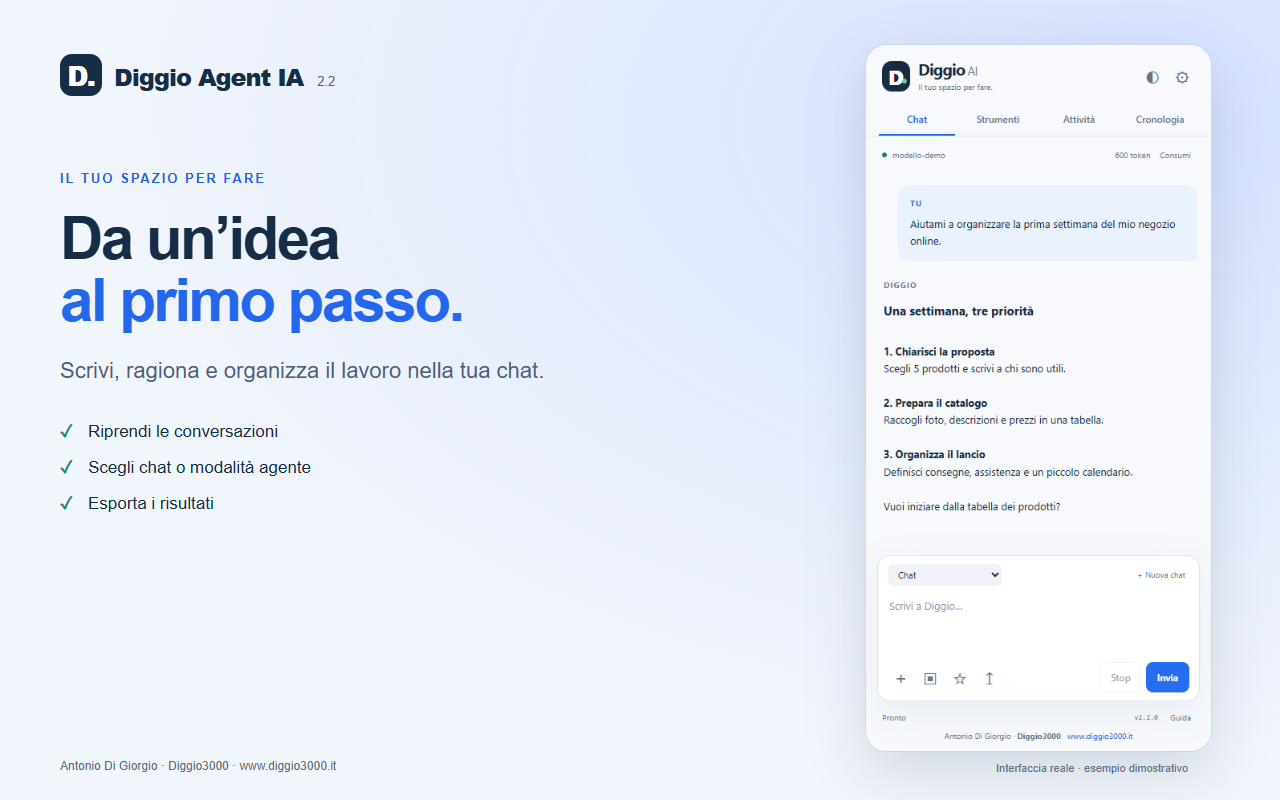
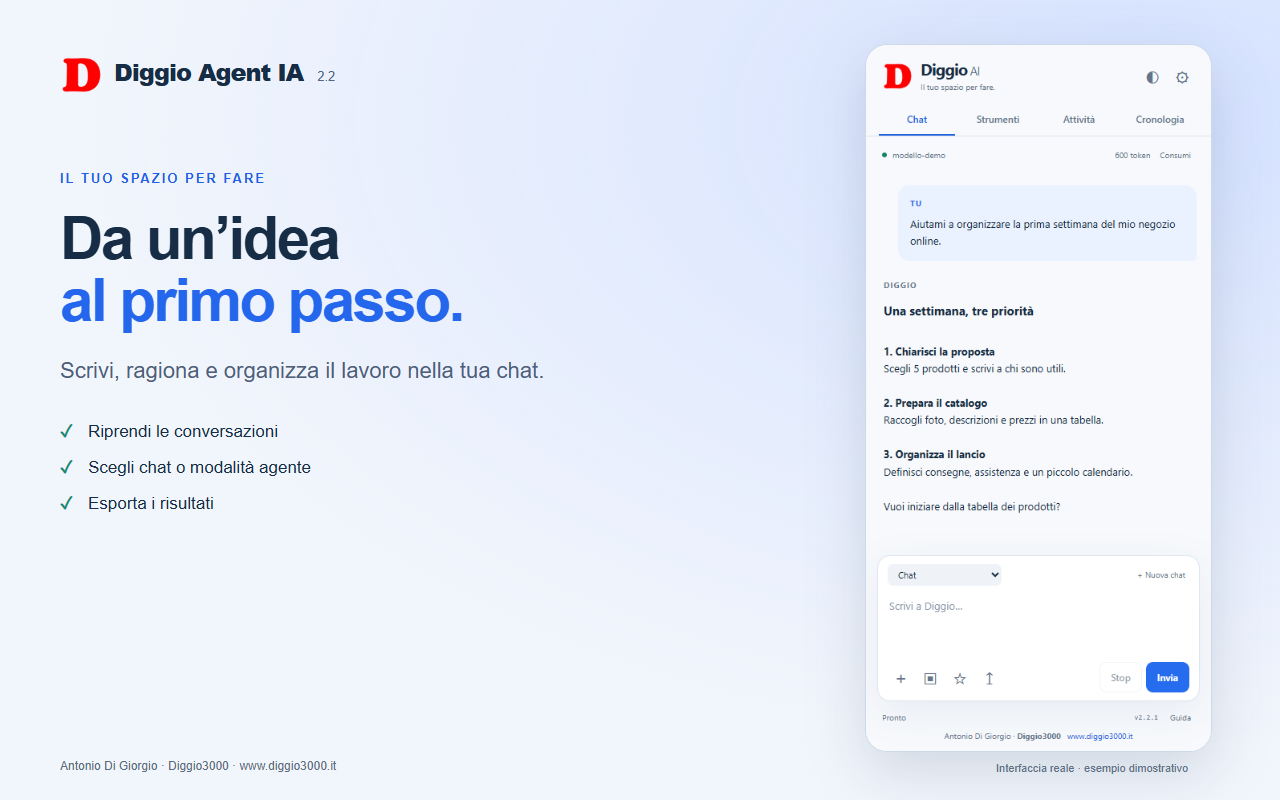
Versione 2.2.1: applica icone scelte e aggiorna le grafiche

Changed region(s): [[0.0312, 0.0625, 0.25, 0.125], [0.6875, 0.0625, 0.7812, 0.125]]

diff --git a/docs/privacy.html b/docs/privacy.html
@@ -1,5 +1,5 @@
 <!doctype html><html lang="it"><meta charset="UTF-8"><meta name="viewport" content="width=device-width,initial-scale=1"><title>Privacy — Diggio Agent IA</title><style>body{margin:0;background:#f5f7fc;color:#182c43;font:16px/1.75 system-ui,sans-serif}main{max-width:820px;margin:0 auto;padding:48px 24px}h1{font-size:38px}h2{font-size:24px;margin-top:40px}a{color:#195bd4}footer{border-top:1px solid #ccd6e8;margin-top:40px;padding-top:20px}</style><main><h1>Privacy — Diggio Agent IA</h1>
-<p>Aggiornamento: 16 settembre 2026 · versione 2.2.0</p>
+<p>Aggiornamento: 16 settembre 2026 · versione 2.2.1</p>
 <h2>Sviluppatore e scopo</h2>
 <p>Antonio Di Giorgio (Diggio3000) sviluppa questa estensione per conversare con un modello AI scelto dall’utente e svolgere attività nel browser. Contatto: diggiotelefonia@gmail.com · https://www.diggio3000.it.</p>
 <h2>Dati sul dispositivo</h2>

diff --git a/sidepanel/panel.css b/sidepanel/panel.css
@@ -115,23 +115,11 @@ small {
   gap: 10px;
 }
 .brand-mark {
-  position: relative;
-  width: 35px;
+  display: block;
+  width: 38px;
   height: 38px;
-  border-radius: 12px;
-  background: var(--text);
-  color: var(--surface);
-  font-size: 25px;
-  font-weight: 800;
-  display: grid;
-  place-items: center;
-}
-.brand-mark > span {
-  position: absolute;
-  right: 3px;
-  bottom: 1px;
-  font-size: 20px;
-  color: #63d6b3;
+  object-fit: contain;
+  flex-shrink: 0;
 }
 .brand strong {
   font-size: 20px;

diff --git a/sidepanel/panel.html b/sidepanel/panel.html
@@ -9,7 +9,7 @@
   <body>
     <header class="app-header">
       <div class="brand">
-        <span class="brand-mark" aria-hidden="true">D<span>•</span></span>
+        <img class="brand-mark" src="../icons/icon128.png" alt="" aria-hidden="true" />
         <div>
           <strong>Diggio<span class="brand-ai"> AI</span></strong
           ><small>Il tuo spazio per fare.</small>

diff --git a/CHANGELOG.md b/CHANGELOG.md
@@ -1,5 +1,10 @@
 # Modifiche
 
+## 2.2.1 — 16 settembre 2026
+
+- Icona D-128 fornita dall’autore applicata all’estensione, al pannello e alle grafiche pubbliche.
+
+
 ## 2.2.0 — 16 settembre 2026
 
 - Procedure Insegnami da chat e registrazione clic, bozze approvate, revisioni e riutilizzo.

diff --git a/docs/PRIVACY.md b/docs/PRIVACY.md
@@ -1,6 +1,6 @@
 # Privacy — Diggio Agent IA
 
-Aggiornamento: 16 settembre 2026 · versione 2.2.0
+Aggiornamento: 16 settembre 2026 · versione 2.2.1
 
 ## Sviluppatore e scopo
 

diff --git a/docs/STORE.md b/docs/STORE.md
@@ -1,4 +1,4 @@
-# Chrome Web Store — Diggio Agent IA 2.2.0
+# Chrome Web Store — Diggio Agent IA 2.2.1
 
 ## Descrizione breve
 
